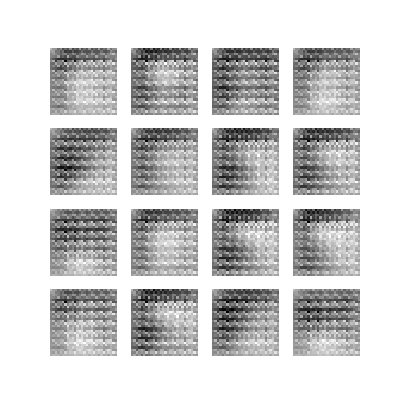
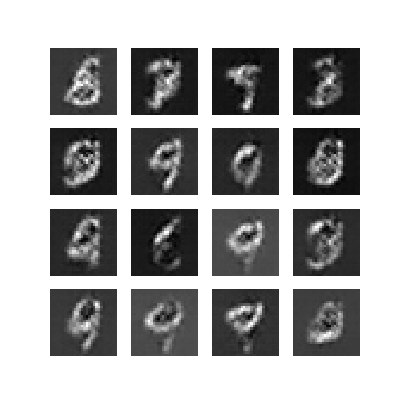
new dataset

diff --git a/ml/testgan.py b/ml/testgan.py
@@ -1,16 +1,21 @@
 import tensorflow as tf
 
 import glob, imageio, numpy as np, os, PIL, time
-from tensorflow.keras import layers
+from tensorflow.keras import layers, datasets
 
 import matplotlib.pyplot as plt
 
 from tqdm import trange
 
-(train_imgs, train_labs), (test_imgs, test_labs) = tf.keras.datasets.mnist.load_data()
+# (train_imgs, train_labs), (test_imgs, test_labs) = tf.keras.datasets.mnist.load_data()
 
-train_imgs = train_imgs.reshape(train_imgs.shape[0], 28, 28, 1).astype('float32')
-train_imgs = (train_imgs - 127.5) / 127.5 # Normalize the images to [-1, 1]
+# train_imgs = train_imgs.reshape(train_imgs.shape[0], 28, 28, 1).astype('float32')
+# train_imgs = (train_imgs - 127.5) / 127.5 # Normalize the images to [-1, 1]
+
+(train_imgs, train_labs), (test_imgs, test_labs) = datasets.cifar10.load_data()
+train_imgs = train_imgs.reshape(train_imgs.shape[0], 32, 32, 3).astype('float32')
+train_imgs, test_imgs = (train_imgs - 127.5) / 127.5, (test_imgs - 127.5) / 127.5 # normalize
+
 
 BUFFER_SIZE = 60000
 BATCH_SIZE  = 256
@@ -20,11 +25,11 @@ train_dataset = tf.data.Dataset.from_tensor_slices(train_imgs).shuffle(BUFFER_SI
 def make_generator_model():
     model = tf.keras.Sequential()
 
-    model.add(layers.Dense(7*7*256, use_bias=False, input_shape=(100,)))
+    model.add(layers.Dense(8*8*256, use_bias=False, input_shape=(100,)))
     model.add(layers.BatchNormalization())
     model.add(layers.LeakyReLU())
 
-    model.add(layers.Reshape((7, 7, 256)))
+    model.add(layers.Reshape((8, 8, 256)))
 
     model.add(layers.Conv2DTranspose(128, (5, 5), strides=(1, 1), padding='same', use_bias=False))
     model.add(layers.BatchNormalization())
@@ -34,14 +39,16 @@ def make_generator_model():
     model.add(layers.BatchNormalization())
     model.add(layers.LeakyReLU())
 
-    model.add(layers.Conv2DTranspose(1, (5, 5), strides=(2, 2), padding='same', use_bias=False))
+    model.add(layers.Conv2DTranspose(3, (5, 5), strides=(2, 2), padding='same', use_bias=False, activation='tanh'))
+
+    model.summary()
 
     return model
 
 def make_discriminator_model():
     model = tf.keras.Sequential()
 
-    model.add(layers.Conv2D(64, (5, 5), strides=(2, 2), padding='same', input_shape=[28, 28, 1]))
+    model.add(layers.Conv2D(64, (5, 5), strides=(2, 2), padding='same', input_shape=[32, 32, 3]))
     model.add(layers.LeakyReLU())
     model.add(layers.Dropout(0.3))
 
@@ -70,7 +77,7 @@ def generator_loss(fake):
 gen_opt = tf.keras.optimizers.Adam(1e-4)
 disc_opt = tf.keras.optimizers.Adam(1e-4)
 
-checkpt_dir = './training_checkpoints'
+checkpt_dir = './training_checkpoints_2'
 checkpt_pref = os.path.join(checkpt_dir, 'ckpt')
 checkpt = tf.train.Checkpoint(generator_optimizer=gen_opt,
                               discriminator_optimizer=disc_opt,
@@ -113,7 +120,7 @@ def gen_imgs(model, epoch, test):
         plt.imshow(predictions[i, :, :, 0] * 127.5 + 127.5, cmap='gray')
         plt.axis('off')
 
-    plt.savefig('image_at_epoch_{:04d}.png'.format(epoch))
+    plt.savefig('image2_at_epoch_{:04d}.png'.format(epoch))
     plt.close()
     # plt.show()
 
@@ -135,7 +142,7 @@ train(train_dataset, EPOCHS)
 anim_file = 'dcgan.gif'
 
 with imageio.get_writer(anim_file, mode='I') as writer:
-  filenames = glob.glob('image*.png')
+  filenames = glob.glob('image2*.png')
   filenames = sorted(filenames)
   last = -1
   for i,filename in enumerate(filenames):
